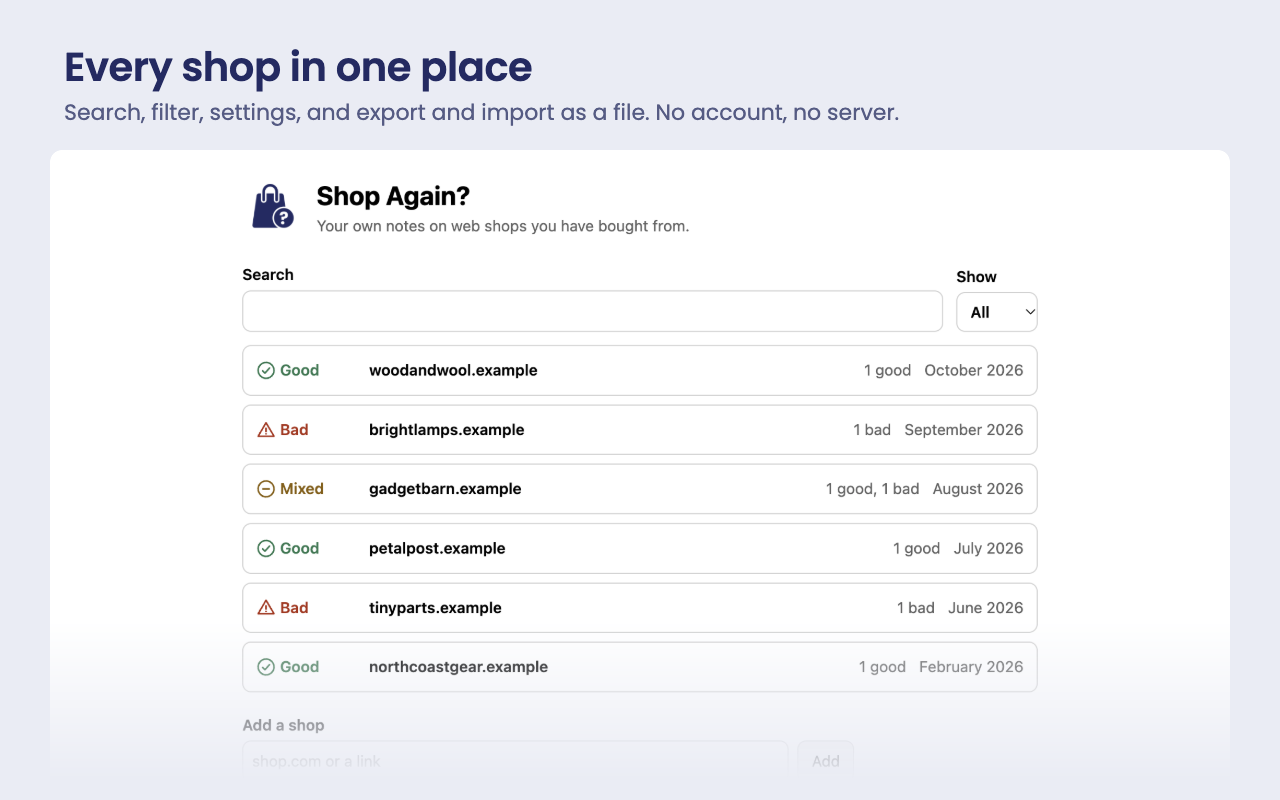
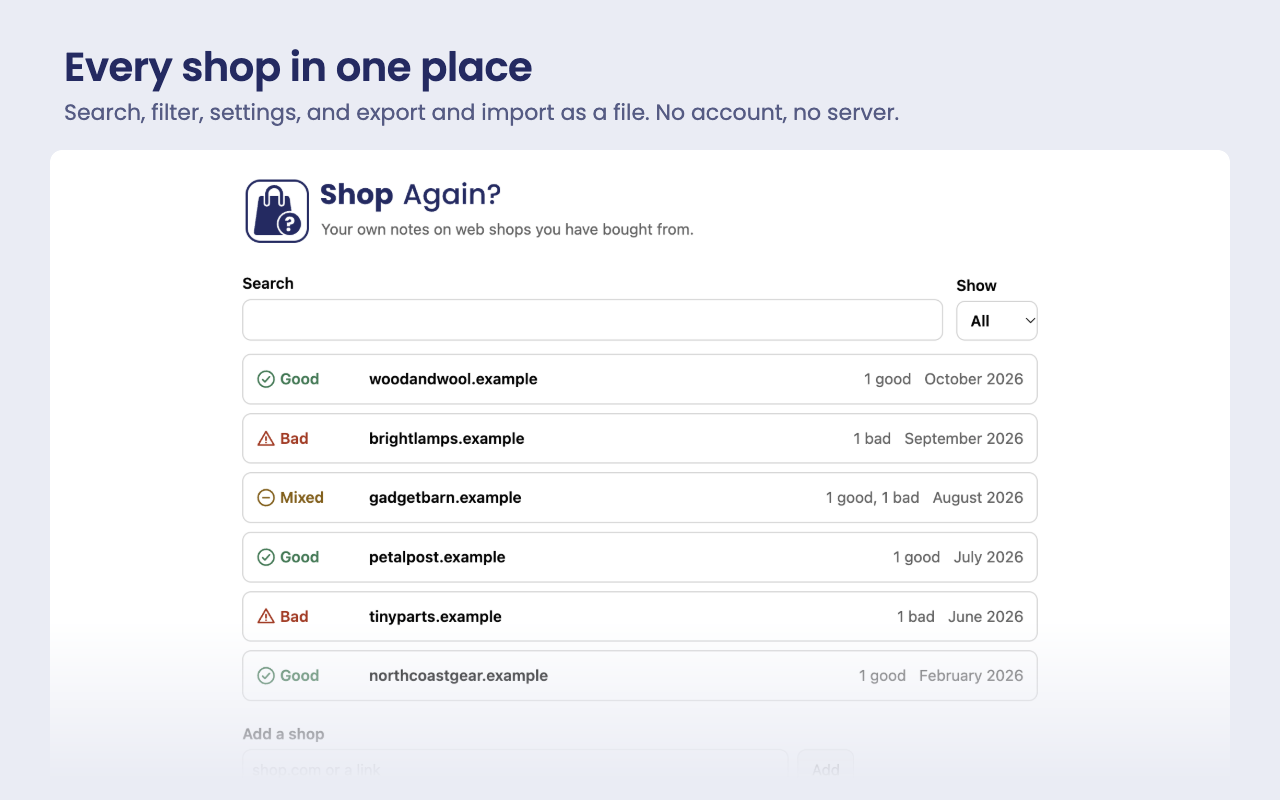
feat: the masthead with a bordered tile and the name in Poppins
The options page and the popup footer inline the icon, so a stroke on its
white square draws the square on light, where it would otherwise vanish, and
the lockup keeps one geometry in both looks. The name is the brand's own
face as paths, navy on light and white on dark, with the text block centered
on the square as before.

diff --git a/ui/banner.ts b/ui/banner.ts
@@ -1,6 +1,6 @@
 import type { Standing } from '@/core/model';
 import { coversSomething } from './clear-spot';
-import { h } from './dom';
+import { h, svg } from './dom';
 import { icon } from './icons';
 
 // Runs inside other people's pages, so it stays free of extension APIs and
@@ -74,7 +74,7 @@ export function mountBanner({ content, css, collapsed, tab: wantTab, onCollapse,
       { class: 'bar', role: 'status' },
       // The sender comes first, as the mark the user knows from the toolbar
       // button, so the bar is never taken for the shop's own.
-      h('span', { class: 'sender' }, markElement(content.mark), content.brand),
+      h('span', { class: 'sender' }, svg(content.mark, { class: 'mark', 'aria-hidden': 'true' }), content.brand),
       icon(content.standing),
       h(
         'p',
@@ -145,14 +145,6 @@ export function mountBanner({ content, css, collapsed, tab: wantTab, onCollapse,
   document.documentElement.append(host);
   if (collapsed) placeTab();
   return host;
-}
-
-/** The mark is the extension's own file, parsed as a document and not as HTML in the shop's page. */
-function markElement(svg: string): Element {
-  const mark = new DOMParser().parseFromString(svg, 'image/svg+xml').documentElement;
-  mark.setAttribute('class', 'mark');
-  mark.setAttribute('aria-hidden', 'true');
-  return mark;
 }
 
 function applyStyles(shadow: ShadowRoot, css: string) {

diff --git a/ui/overview.ts b/ui/overview.ts
@@ -20,7 +20,9 @@ import {
   type BannerMode,
   type Settings,
 } from '@/platform/store';
-import { fill, h } from './dom';
+import markIcon from '@/assets/icon.svg?raw';
+import nameMark from '@/assets/name.svg?raw';
+import { fill, h, svg } from './dom';
 import { icon } from './icons';
 import { standingLabel, summaryText } from './labels';
 import { mountShopView } from './shop-view';
@@ -337,11 +339,18 @@ export function mountOverview(root: HTMLElement, { open = null }: { open?: strin
 
   fill(
     root,
+    // The icon and the name are inlined so the page's colors reach them: the
+    // name is drawn, in the brand's own face, and reads its name out loud.
     h(
       'header',
       { class: 'masthead' },
-      h('img', { class: 'logo', src: 'icon/128.png', alt: '' }),
-      h('div', {}, h('h1', {}, t('extName')), h('p', { class: 'muted' }, t('optionsTagline'))),
+      svg(markIcon, { class: 'logo', 'aria-hidden': 'true' }),
+      h(
+        'div',
+        { class: 'text' },
+        h('h1', {}, svg(nameMark, { class: 'name', role: 'img', 'aria-label': t('extName') })),
+        h('p', { class: 'muted' }, t('optionsTagline')),
+      ),
     ),
     h('main', {}, h('section', {}, toolbar(), list, addShopForm()), settingsSection, dataSection()),
     dialog,

diff --git a/ui/overview.css b/ui/overview.css
@@ -7,22 +7,43 @@ body {
   padding-inline: var(--space-4);
 }
 
-h1 {
-  font-size: 24px;
-}
-
+/* The icon's white square is inset 8 of 128, so a 64 px icon shows a 56 px
+   square with 4 px of air for its border, which stands in for 4 px of the gap. */
 .masthead {
   display: flex;
   align-items: center;
-  gap: var(--space-3);
+  gap: var(--space-2);
 }
 
-/* The icon carries its own white square, so it sits the same on light and dark. */
 .logo {
   flex: none;
-  inline-size: 56px;
-  block-size: 56px;
-  border-radius: 12px;
+  inline-size: 64px;
+  block-size: 64px;
+  overflow: visible;
+}
+
+/* On light the square would vanish into the page, so a border draws it, and
+   the lockup keeps one geometry in both looks. */
+.logo .tile {
+  stroke: var(--brand-edge);
+  stroke-width: 4;
+}
+
+.masthead .text {
+  display: grid;
+  gap: 6px;
+}
+
+.masthead h1 {
+  line-height: 0;
+}
+
+/* The name in the brand's own face, its capitals at a 24 px heading's 18 px. */
+.name {
+  display: block;
+  block-size: 27px;
+  inline-size: auto;
+  color: var(--brand);
 }
 
 main,

diff --git a/entrypoints/popup/main.ts b/entrypoints/popup/main.ts
@@ -6,7 +6,8 @@ import { browser } from '@/platform/browser';
 import { t } from '@/platform/i18n';
 import { loadDraftDomains } from '@/platform/store';
 import { openSettings } from '@/platform/windows';
-import { fill, h } from '@/ui/dom';
+import smallMark from '@/assets/icon-small.svg?raw';
+import { fill, h, svg } from '@/ui/dom';
 import { icon } from '@/ui/icons';
 import { mountShopView } from '@/ui/shop-view';
 
@@ -52,7 +53,7 @@ fill(
   element('more'),
   // The sender, with the mark the toolbar button shows, so the popup is
   // recognized as the same thing as the banner.
-  h('span', { class: 'brand' }, h('img', { src: 'icon/32.png', alt: '' }), t('extName')),
+  h('span', { class: 'brand' }, svg(smallMark, { class: 'logo', 'aria-hidden': 'true' }), t('extName')),
   // The gear says that the settings live on the same page.
   h('button', { type: 'button', class: 'link', onclick: () => void openSettings() }, icon('gear'), t('allShops')),
 );

diff --git a/ui/dom.ts b/ui/dom.ts
@@ -26,6 +26,16 @@ export function fill(element: Element, ...children: Child[]): void {
   element.replaceChildren(...present(children));
 }
 
+/**
+ * An inline SVG from its markup, one of the extension's own drawings, so its
+ * shapes can take the page's colors. Attributes replace the markup's own.
+ */
+export function svg(markup: string, attrs: Record<string, string> = {}): SVGElement {
+  const element = new DOMParser().parseFromString(markup, 'image/svg+xml').documentElement as unknown as SVGElement;
+  for (const [name, value] of Object.entries(attrs)) element.setAttribute(name, value);
+  return element;
+}
+
 function present(children: Child[]): (Node | string)[] {
   return children.filter((child) => child !== false && child != null);
 }

diff --git a/entrypoints/popup/style.css b/entrypoints/popup/style.css
@@ -31,11 +31,18 @@ footer {
   font-weight: 600;
 }
 
-/* The icon carries its own white square, so it sits the same on light and dark. */
-.brand img {
+/* The icon with its white square, as the toolbar shows it. On light a border
+   draws the square, which would otherwise vanish into the page. */
+.brand .logo {
+  flex: none;
   inline-size: 20px;
   block-size: 20px;
-  border-radius: 5px;
+  overflow: visible;
+}
+
+.brand .tile {
+  stroke: var(--brand-edge);
+  stroke-width: 6;
 }
 
 footer .link {

diff --git a/ui/base.css b/ui/base.css
@@ -16,6 +16,11 @@
   --surface: color-mix(in srgb, CanvasText 5%, Canvas);
   --surface-hover: color-mix(in srgb, CanvasText 10%, Canvas);
 
+  /* The mark's navy for the name next to it, and for the edge that draws the
+     icon's white square where it would otherwise vanish into the page. */
+  --brand: light-dark(#1e2a64, #fff);
+  --brand-edge: light-dark(#1e2a64, transparent);
+
   --good: light-dark(#18794e, #5fd39c);
   --bad: light-dark(#b42318, #ff8f85);
   --mixed: light-dark(#8a5a00, #f2b84b);

diff --git a/store/README.md b/store/README.md
@@ -6,7 +6,7 @@ Everything the three stores ask for, so a release is uploads and form filling. T
 
 | File | Is |
 |---|---|
-| `mark.mjs` | Draws the mark, the small mark and the wordmark into `assets/`, and the name alone into `promo/`, as SVG paths, with the question mark and the text as Poppins glyphs, so a change to the mark is a number here and not a new drawing |
+| `mark.mjs` | Draws the mark, the small mark, the wordmark and the name into `assets/`, and the name in white into `promo/`, as SVG paths, with the question mark and the text as Poppins glyphs, so a change to the mark is a number here and not a new drawing |
 | `fonts.mjs` | Fetches Poppins from Google Fonts into the system temp directory for `mark.mjs` and the tiles, so the repo carries no font files |
 | `icons.sh` | Renders `public/icon/*.png` and `images/logo-300.png` from `assets/icon.svg` and `assets/icon-small.svg`, which live in `assets/` because the banner draws the small mark from the same file |
 | `listing.en.md`, `listing.da.md` | Name, short description, summary, description and search terms, per language |
